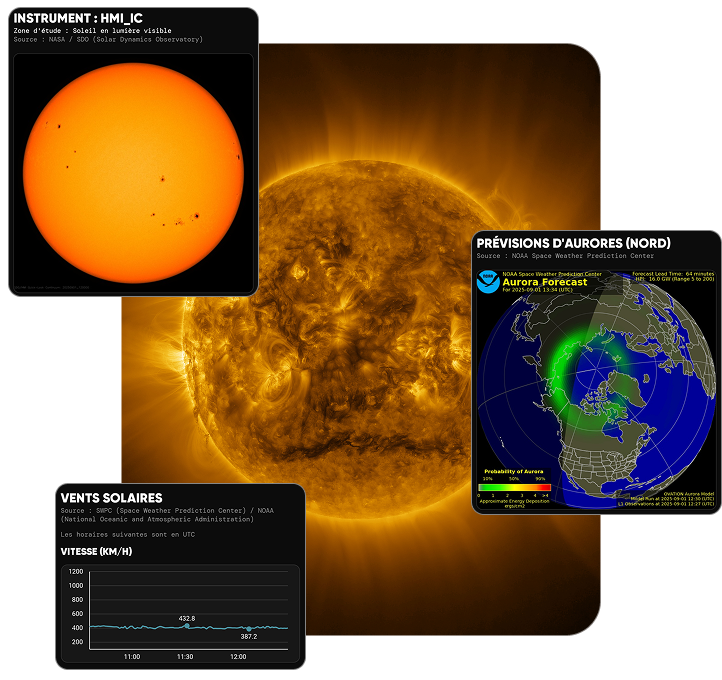
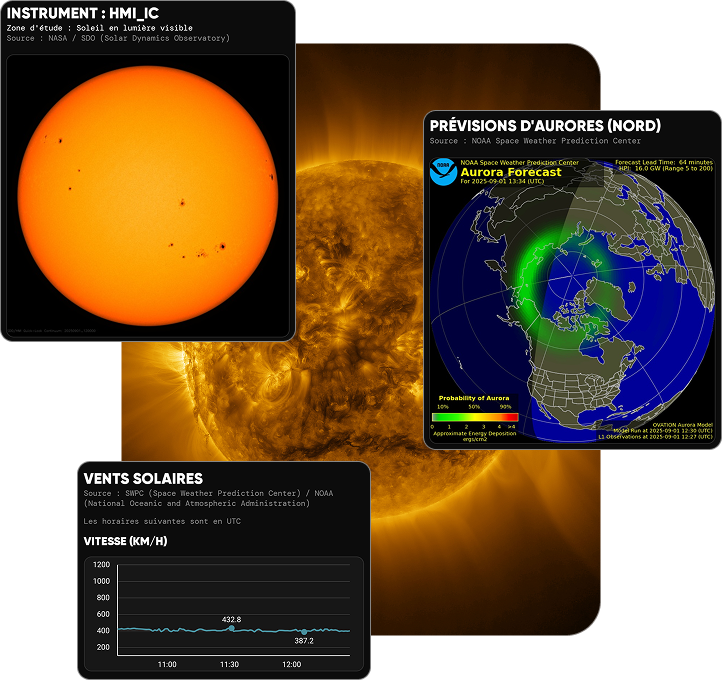
Updated features images + types

diff --git a/src/helpers/constants/featuresList.ts b/src/helpers/constants/featuresList.ts
@@ -4,36 +4,36 @@ export const featuresList: FeaturedFeature[] = [
   {
     id: 0,
     title: "Catalogue d'objets",
-    content: "Accédez à une base complète de plus de 110 000 étoiles et 14 000 galaxies, nébuleuses et amas à explorer."
+    content: "Accédez à une base complète de plus de 110 000 étoiles et 14 000 galaxies, nébuleuses et amas, avec des données précises pour explorer l’univers en détail."
   },
   {
     id: 1,
     title: "Météo en direct",
-    content: "Consultez les prévisions locales heure par heure pour préparer vos nuits d’observation."
+    content: "Consultez les prévisions locales heure par heure avec une précision adaptée à l’astronomie, afin de planifier vos nuits d’observation sereinement."
   },
   {
     id: 2,
     title: "Viseur polaire",
-    content: "Un assistant visuel pour aligner parfaitement votre télescope et améliorer vos observations."
+    content: "Un assistant visuel simple et efficace pour aligner parfaitement votre télescope et optimiser la qualité de vos observations et photos."
   },
   {
     id: 3,
     title: "Suivi de l'ISS",
-    content: "Visualisez la trajectoire de la Station Spatiale Internationale et recevez les horaires de passage au-dessus de votre position."
+    content: "Visualisez en temps réel la trajectoire de la Station Spatiale Internationale et recevez les horaires exacts de ses passages au-dessus de votre position."
   },
   {
     id: 4,
     title: "Calendrier des lancements",
-    content: "Ne manquez aucun décollage grâce à un agenda détaillé des prochains lancements spatiaux."
+    content: "Ne manquez aucun décollage grâce à un agenda détaillé des prochains lancements spatiaux, avec la possibilité d’ajouter des rappels."
   },
   {
     id: 5,
     title: "Transits et éclipses",
-    content: "Prévoyez les éclipses visibles depuis votre localisation ainsi que les raprochements de planètes dans le ciel !"
+    content: "Prévoyez facilement les éclipses visibles depuis votre localisation ainsi que les rapprochements et transits planétaires marquants dans le ciel."
   },
   {
     id: 6,
     title: "Météo solaire",
-    content: "Surveillez l’activité de notre étoile avec des images en temps réel et des données précises de son activité."
+    content: "Surveillez l’activité de notre étoile grâce à des images en temps réel, des vidéos, et des données précises sur son activité solaire."
   }
 ]

diff --git a/src/components/sections/Features.tsx b/src/components/sections/Features.tsx
@@ -1,6 +1,7 @@
 import { useState } from 'react';
 import '../../styles/components/sections/features.scss'
 import { featuresList } from '../../helpers/constants/featuresList';
+import type { FeaturedFeature } from '../../helpers/types/FeaturedFeature';
 
 export const Features = () => {
 
@@ -15,7 +16,7 @@ export const Features = () => {
         </div>
         <div className="menu-side">
           {
-            featuresList.map((feature, index) => {
+            featuresList.map((feature: FeaturedFeature) => {
               return (
                 <button className='menu-button' onClick={() => setSelectedFeature(feature.id)}>
                   <div className='menu-button-header'>

diff --git a/src/styles/components/sections/features.scss b/src/styles/components/sections/features.scss
@@ -26,7 +26,7 @@
       // background-color: red;
   
       .illustration{
-        height: 60vh;
+        height: 100%;
       }
     }
   
